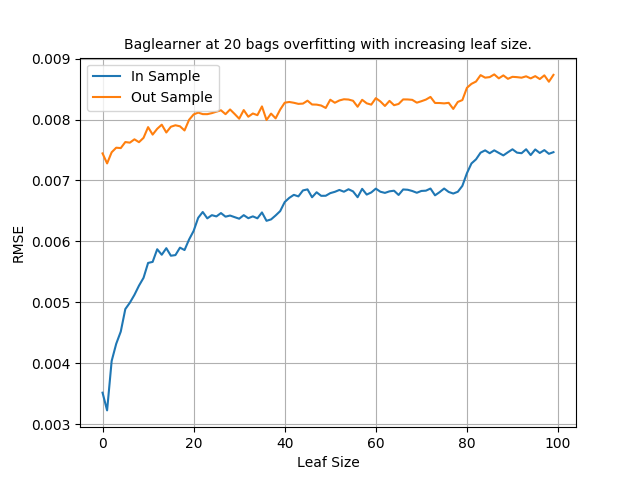
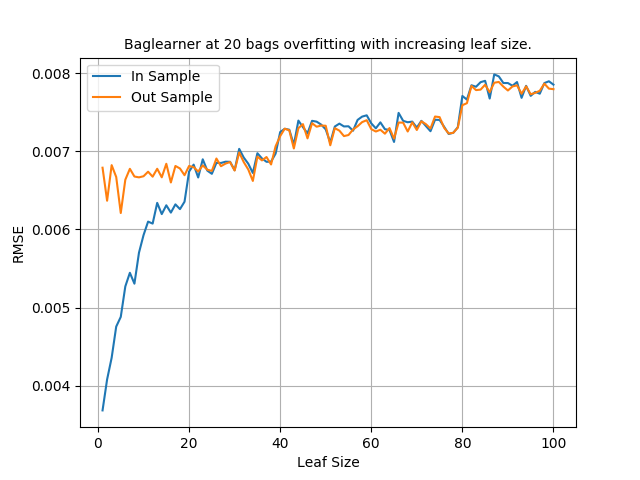
graphs we need

diff --git a/assess_learners/testlearner.py b/assess_learners/testlearner.py
@@ -35,7 +35,7 @@ import matplotlib.pyplot as plt
 import time
 
 def run_learner(learner, trainX, trainY, testX, testY):
-    print ">>>>>>>>>>>>>>>>>>>>>>>>>>>>>>>>>>>>>>>>"
+    # print ">>>>>>>>>>>>>>>>>>>>>>>>>>>>>>>>>>>>>>>>"
     print learner.author()
     tree_building_start = time.time()
     learner.addEvidence(trainX, trainY)  # training step
@@ -49,26 +49,26 @@ def run_learner(learner, trainX, trainY, testX, testY):
         tree_size = 0
 
     rmse_in = math.sqrt(((trainY - predY) ** 2).sum() / trainY.shape[0])
-    print
-    print "In sample results"
-    print "RMSE: ", rmse_in
+    # print
+    # print "In sample results"
+    # print "RMSE: ", rmse_in
     c = np.corrcoef(predY, y=trainY)
-    print "corr: ", c[0, 1]
+    # print "corr: ", c[0, 1]
 
     # evaluate out of sample
     predY = learner.query(testX)  # get the predictions
     rmse_out = math.sqrt(((testY - predY) ** 2).sum() / testY.shape[0])
-    print
-    print "Out of sample results"
-    print "RMSE: ", rmse_out
+    # print
+    # print "Out of sample results"
+    # print "RMSE: ", rmse_out
     c = np.corrcoef(predY, y=testY)
-    print "corr: ", c[0, 1]
-    print "<<<<<<<<<<<<<<<<<<<<<<<<<<<<<<<<<<<<<<<<<<"
+    # print "corr: ", c[0, 1]
+    # print "<<<<<<<<<<<<<<<<<<<<<<<<<<<<<<<<<<<<<<<<<<"
     return rmse_in, rmse_out, tree_size, (tree_building_end - tree_building_start)
 
 
 def generate_plots(datafile = 'Istanbul.csv'):
-    np.random.seed(903205913)
+    np.random.seed(10)
     print " Plotting graphs for " + str(datafile)
     with util.get_learner_data_file(datafile) as f:
         alldata = np.genfromtxt(f, delimiter=',')
@@ -99,11 +99,12 @@ def generate_plots(datafile = 'Istanbul.csv'):
     dt_learner_tree_time.fill(-1)
 
     leaf_size = range(100)
+    leaf_plot = range(1,101)
     for i in leaf_size:
-        learner = dt.DTLearner(leaf_size=i, verbose=False)  # constructor
+        learner = dt.DTLearner(leaf_size=i+1, verbose=False)  # constructor
         rmses_in[i], rmses_out[i], dt_learner_tree_size[i], dt_learner_tree_time[i] = run_learner(learner, trainX, trainY, testX, testY)  # training step
-    plt.plot(leaf_size, rmses_in, label="In Sample")
-    plt.plot(leaf_size, rmses_out, label="Out Sample")
+    plt.plot(leaf_plot, rmses_in, label="In Sample")
+    plt.plot(leaf_plot, rmses_out, label="Out Sample")
     plt.legend(loc="best")
     plt.grid(True)
     plt.title('DTLearner overfitting with increasing leaf size.', fontsize=10)
@@ -119,11 +120,11 @@ def generate_plots(datafile = 'Istanbul.csv'):
     rmses_out_2 = np.empty(100)
     rmses_out_2.fill(-1)
     for i in leaf_size:
-        kwargs = {'leaf_size': i}
+        kwargs = {'leaf_size': i+1}
         learner = bl.BagLearner(learner=dt.DTLearner, kwargs=kwargs, verbose=False, bags=20)  # constructor
         rmses_in_2[i], rmses_out_2[i], ignore, ignore_2 = run_learner(learner, trainX, trainY, testX, testY)  # training step
-    plt.plot(leaf_size, rmses_in_2, label="In Sample")
-    plt.plot(leaf_size, rmses_out_2, label="Out Sample")
+    plt.plot(leaf_plot, rmses_in_2, label="In Sample")
+    plt.plot(leaf_plot, rmses_out_2, label="Out Sample")
     plt.legend(loc="best")
     plt.grid(True)
     plt.title('Baglearner at 20 bags overfitting with increasing leaf size.', fontsize=10)
@@ -145,10 +146,10 @@ def generate_plots(datafile = 'Istanbul.csv'):
     rt_learner_tree_time.fill(-1)
 
     for i in leaf_size:
-        learner = rt.RTLearner(leaf_size=i, verbose=False)  # constructor
+        learner = rt.RTLearner(leaf_size=i+1, verbose=False)  # constructor
         rmses_in_3[i], rmses_out_3[i], rt_learner_tree_size[i], rt_learner_tree_time[i] = run_learner(learner, trainX, trainY, testX, testY)  # training step
-    plt.plot(leaf_size, rmses_in_3, label="In Sample")
-    plt.plot(leaf_size, rmses_out_3, label="Out Sample")
+    plt.plot(leaf_plot, rmses_in_3, label="In Sample")
+    plt.plot(leaf_plot, rmses_out_3, label="Out Sample")
     plt.legend(loc="best")
     plt.grid(True)
     plt.title('RTLearner overfitting with increasing leaf size.', fontsize=10)
@@ -160,8 +161,8 @@ def generate_plots(datafile = 'Istanbul.csv'):
     plt.close()
 
 
-    plt.plot(leaf_size, rt_learner_tree_size, label="RTLearner")
-    plt.plot(leaf_size, dt_learner_tree_size, label="DTLearner")
+    plt.plot(leaf_plot, rt_learner_tree_size, label="RTLearner")
+    plt.plot(leaf_plot, dt_learner_tree_size, label="DTLearner")
     plt.legend(loc="best")
     plt.grid(True)
     plt.title('RTLearner vs DTLearner Tree Size.', fontsize=10)
@@ -172,14 +173,34 @@ def generate_plots(datafile = 'Istanbul.csv'):
     plt.cla()
     plt.close()
 
-    plt.plot(leaf_size, rt_learner_tree_time, label="RTLearner")
-    plt.plot(leaf_size, dt_learner_tree_time, label="DTLearner")
+    plt.plot(leaf_plot, rt_learner_tree_time, label="RTLearner")
+    plt.plot(leaf_plot, dt_learner_tree_time, label="DTLearner")
     plt.legend(loc="best")
     plt.grid(True)
     plt.title('RTLearner vs DTLearner Tree Building Time.', fontsize=10)
-    plt.ylabel('Tree Size')
+    plt.ylabel('Time (Seconds)')
     plt.xlabel('Leaf Size')
     plt.savefig('RTLearner vs DTLearner Tree Building Time.')
+    plt.clf()
+    plt.cla()
+    plt.close()
+
+    rmses_in_5 = np.empty(100)
+    rmses_in_5.fill(-1)
+    rmses_out_5 = np.empty(100)
+    rmses_out_5.fill(-1)
+    for i in leaf_size:
+        kwargs = {'leaf_size': i+1}
+        learner = bl.BagLearner(learner=dt.DTLearner, kwargs=kwargs, verbose=False, bags=10)  # constructor
+        rmses_in_5[i], rmses_out_5[i], ignore, ignore_2 = run_learner(learner, trainX, trainY, testX, testY)  # training step
+    plt.plot(leaf_plot, rmses_in_5, label="In Sample")
+    plt.plot(leaf_plot, rmses_out_5, label="Out Sample")
+    plt.legend(loc="best")
+    plt.grid(True)
+    plt.title('Baglearner at 10 bags overfitting with increasing leaf size.', fontsize=10)
+    plt.ylabel('RMSE')
+    plt.xlabel('Leaf Size')
+    plt.savefig('Baglearner at 10 bags overfitting with increasing leaf size.')
     plt.clf()
     plt.cla()
     plt.close()
